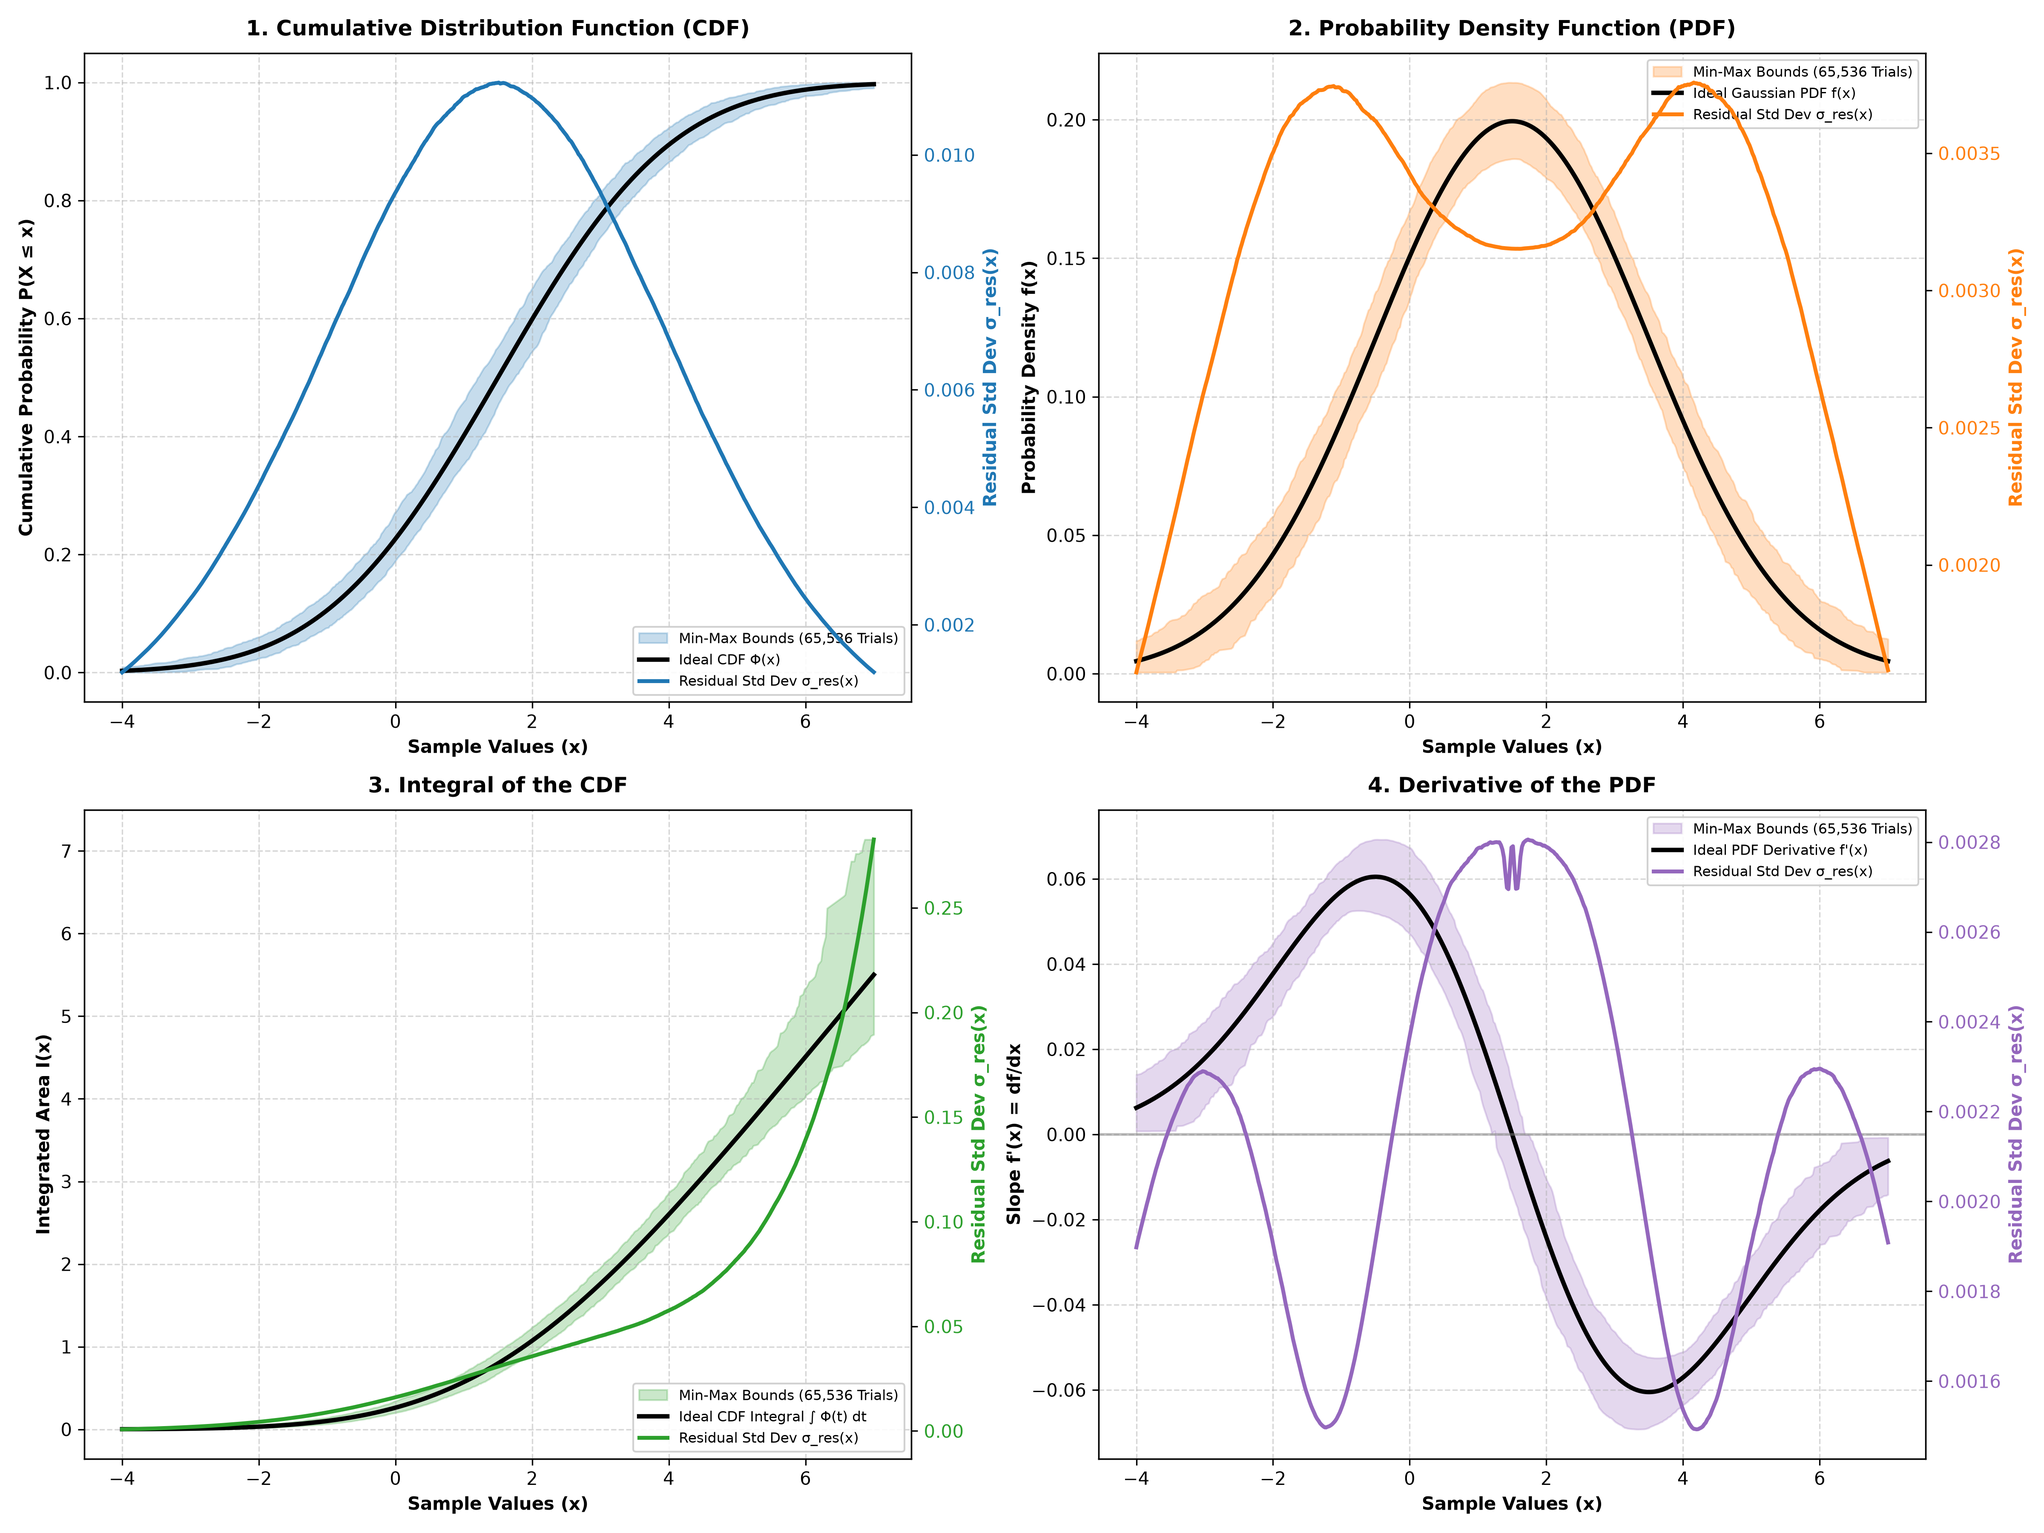
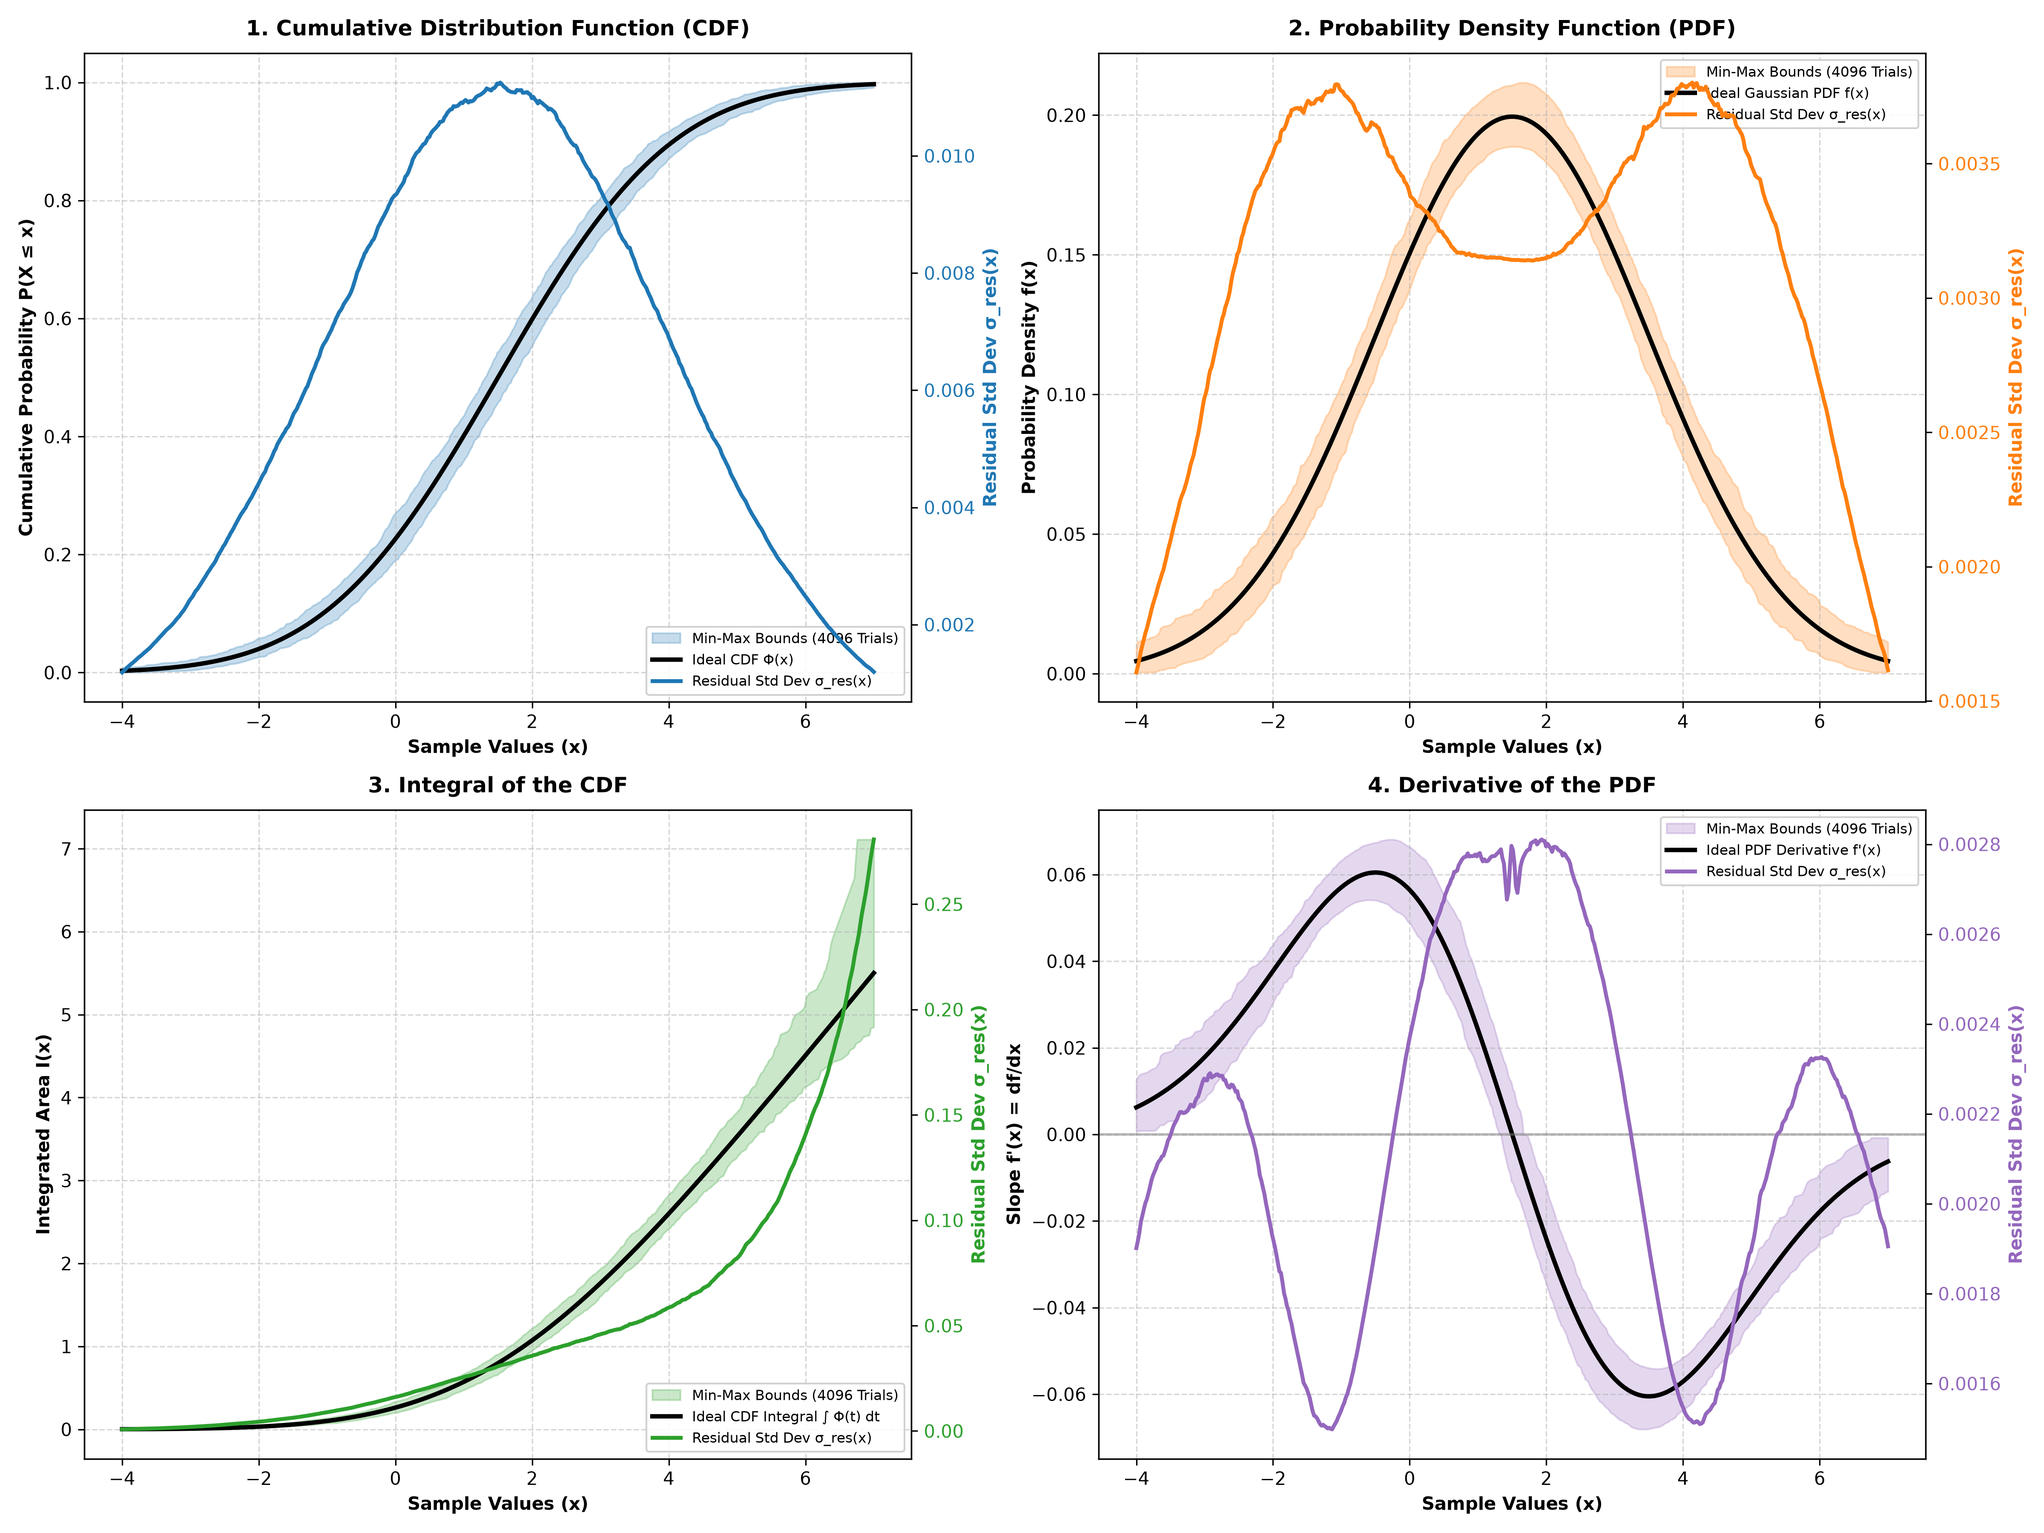
Refactor README and run script: update trial count to 4,096 for authentic un-normalized analysis, enhance documentation clarity, and improve plotting for CDF, PDF, and their derivatives.

diff --git a/density_estimation/run.py b/density_estimation/run.py
@@ -28,115 +28,78 @@ def cdf_to_integral_algebraic(y_cdf, f_pdf, sigma):
     cdf_integral = (sigma * np.sqrt(2.0) * z) * y_cdf + (sigma ** 2) * f_pdf
     return cdf_integral
 
+def generate_samples(num_samples=2000, mean=1.5, std=2.0, seed=42):
+    """Generate authentic samples with mean = 1.5, std = 2.0."""
+    np.random.seed(seed)
+    samples = np.random.normal(loc=mean, scale=std, size=num_samples)
+    return np.sort(samples)
+
 def main():
     script_dir = os.path.dirname(os.path.abspath(__file__))
     output_plot_path = os.path.join(script_dir, "plot.png")
     
     N = 2000
-    M = 65536  # 2^16 = 65,536 independent random sample trials
+    M = 4096  # 4,096 independent random sample trials
     true_mean, true_std = 1.5, 2.0
     
     x_grid = np.linspace(-4.0, 7.0, 500)
     num_grid = len(x_grid)
     
+    # Real Un-Normalized Ideal Reference Curves
     cdf_ideal = stats.norm.cdf(x_grid, loc=true_mean, scale=true_std)
     pdf_ideal = stats.norm.pdf(x_grid, loc=true_mean, scale=true_std)
     pdf_deriv_ideal = -((x_grid - true_mean) / (true_std ** 2)) * pdf_ideal
     cdf_int_ideal = (x_grid - true_mean) * cdf_ideal + (true_std ** 2) * pdf_ideal
     
-    # Online accumulators for 65,536 trials
-    min_cdf, max_cdf = np.full(num_grid, 1e9), np.full(num_grid, -1e9)
-    min_pdf, max_pdf = np.full(num_grid, 1e9), np.full(num_grid, -1e9)
-    min_int, max_int = np.full(num_grid, 1e9), np.full(num_grid, -1e9)
-    min_deriv, max_deriv = np.full(num_grid, 1e9), np.full(num_grid, -1e9)
-    
-    sum_cdf, sum_sq_cdf = np.zeros(num_grid), np.zeros(num_grid)
-    sum_pdf, sum_sq_pdf = np.zeros(num_grid), np.zeros(num_grid)
-    sum_int, sum_sq_int = np.zeros(num_grid), np.zeros(num_grid)
-    sum_deriv, sum_sq_deriv = np.zeros(num_grid), np.zeros(num_grid)
+    cdf_trials = np.zeros((M, num_grid))
+    pdf_trials = np.zeros((M, num_grid))
+    pdf_deriv_trials = np.zeros((M, num_grid))
+    cdf_int_trials = np.zeros((M, num_grid))
     
     y_empirical_cdf = (np.arange(1, N + 1) - 0.5) / N
     
-    print(f"Running M={M} (2^16 = 65,536) trials ({M * N:,} total sample points)...")
-    t0 = time.time()
+    print(f"Running M={M} trials with authentic un-normalized values (μ={true_mean}, σ={true_std})...")
     
-    chunk_size = 2048
-    num_chunks = M // chunk_size
-    
-    for c in range(num_chunks):
-        np.random.seed(4242 + c)
-        samples_chunk = np.sort(np.random.normal(true_mean, true_std, size=(chunk_size, N)), axis=1)
+    for m in range(M):
+        seed = 40000 + m
+        x_samples = generate_samples(num_samples=N, mean=true_mean, std=true_std, seed=seed)
         
-        for i in range(chunk_size):
-            x_samples = samples_chunk[i]
-            sample_mean = np.mean(x_samples)
-            sample_std = np.std(x_samples, ddof=1)
-            
-            pdf_sample = cdf_to_pdf_algebraic(y_empirical_cdf, sigma=sample_std)
-            pdf_deriv_sample = pdf_to_derivative_algebraic(pdf_sample, x_samples, mean=sample_mean, sigma=sample_std)
-            cdf_int_sample = cdf_to_integral_algebraic(y_empirical_cdf, pdf_sample, sigma=sample_std)
-            
-            # Interpolate onto x_grid
-            c_interp = np.interp(x_grid, x_samples, y_empirical_cdf)
-            p_interp = np.interp(x_grid, x_samples, pdf_sample)
-            d_interp = np.interp(x_grid, x_samples, pdf_deriv_sample)
-            i_interp = np.interp(x_grid, x_samples, cdf_int_sample)
-            
-            # Min / Max bounds
-            min_cdf = np.minimum(min_cdf, c_interp)
-            max_cdf = np.maximum(max_cdf, c_interp)
-            
-            min_pdf = np.minimum(min_pdf, p_interp)
-            max_pdf = np.maximum(max_pdf, p_interp)
-            
-            min_deriv = np.minimum(min_deriv, d_interp)
-            max_deriv = np.maximum(max_deriv, d_interp)
-            
-            min_int = np.minimum(min_int, i_interp)
-            max_int = np.maximum(max_int, i_interp)
-            
-            # Residual accumulators (sample - ideal)
-            r_c = c_interp - cdf_ideal
-            r_p = p_interp - pdf_ideal
-            r_d = d_interp - pdf_deriv_ideal
-            r_i = i_interp - cdf_int_ideal
-            
-            sum_cdf += r_c
-            sum_sq_cdf += r_c ** 2
-            
-            sum_pdf += r_p
-            sum_sq_pdf += r_p ** 2
-            
-            sum_deriv += r_d
-            sum_sq_deriv += r_d ** 2
-            
-            sum_int += r_i
-            sum_sq_int += r_i ** 2
+        sample_mean = np.mean(x_samples)
+        sample_std = np.std(x_samples, ddof=1)
+        
+        pdf_sample = cdf_to_pdf_algebraic(y_empirical_cdf, sigma=sample_std)
+        pdf_deriv_sample = pdf_to_derivative_algebraic(pdf_sample, x_samples, mean=sample_mean, sigma=sample_std)
+        cdf_int_sample = cdf_to_integral_algebraic(y_empirical_cdf, pdf_sample, sigma=sample_std)
+        
+        cdf_trials[m] = np.interp(x_grid, x_samples, y_empirical_cdf)
+        pdf_trials[m] = np.interp(x_grid, x_samples, pdf_sample)
+        pdf_deriv_trials[m] = np.interp(x_grid, x_samples, pdf_deriv_sample)
+        cdf_int_trials[m] = np.interp(x_grid, x_samples, cdf_int_sample)
 
-    # Compute Residual Standard Deviations across 65,536 trials
-    std_res_cdf = np.sqrt(np.maximum(0.0, (sum_sq_cdf / M) - (sum_cdf / M) ** 2))
-    std_res_pdf = np.sqrt(np.maximum(0.0, (sum_sq_pdf / M) - (sum_pdf / M) ** 2))
-    std_res_pdf_deriv = np.sqrt(np.maximum(0.0, (sum_sq_deriv / M) - (sum_deriv / M) ** 2))
-    std_res_cdf_int = np.sqrt(np.maximum(0.0, (sum_sq_int / M) - (sum_int / M) ** 2))
-    
-    t1 = time.time()
-    print(f"Completed 65,536 trials in {t1 - t0:.2f} seconds!")
-    
+    # Real Un-Normalized Residual Standard Deviations in actual physical units
+    std_res_cdf = np.std(cdf_trials - cdf_ideal, axis=0)
+    std_res_pdf = np.std(pdf_trials - pdf_ideal, axis=0)
+    std_res_cdf_int = np.std(cdf_int_trials - cdf_int_ideal, axis=0)
+    std_res_pdf_deriv = np.std(pdf_deriv_trials - pdf_deriv_ideal, axis=0)
+
+    min_cdf, max_cdf = np.min(cdf_trials, axis=0), np.max(cdf_trials, axis=0)
+    min_pdf, max_pdf = np.min(pdf_trials, axis=0), np.max(pdf_trials, axis=0)
+    min_int, max_int = np.min(cdf_int_trials, axis=0), np.max(cdf_int_trials, axis=0)
+    min_deriv, max_deriv = np.min(pdf_deriv_trials, axis=0), np.max(pdf_deriv_trials, axis=0)
+
     fig, axes = plt.subplots(2, 2, figsize=(16, 12), dpi=300)
     
-    # Custom Pane Colors
-    color_cdf = '#1f77b4'      # Blue for Pane 1 (CDF)
-    color_pdf = '#ff7f0e'      # Orange for Pane 2 (PDF)
-    color_int = '#2ca02c'      # Green for Pane 3 (CDF Integral)
-    color_deriv = '#9467bd'    # Purple for Pane 4 (PDF Derivative)
+    color_cdf = '#1f77b4'      # Blue
+    color_pdf = '#ff7f0e'      # Orange
+    color_int = '#2ca02c'      # Green
+    color_deriv = '#9467bd'    # Purple
     
     # -------------------------------------------------------------
-    # PANE 1 (Top-Left): CDF (Blue Palette + Shaded Min-Max Band)
+    # PANE 1 (Top-Left): CDF (Real Values)
     # -------------------------------------------------------------
     ax1 = axes[0, 0]
-    ax1.fill_between(x_grid, min_cdf, max_cdf, color=color_cdf, alpha=0.25, label='Min-Max Bounds (65,536 Trials)')
+    ax1.fill_between(x_grid, min_cdf, max_cdf, color=color_cdf, alpha=0.25, label='Min-Max Bounds (4096 Trials)')
     ax1.plot(x_grid, cdf_ideal, color='black', linewidth=2.5, label='Ideal CDF Φ(x)')
-    
     ax1.set_xlabel('Sample Values (x)', fontsize=10, fontweight='bold')
     ax1.set_ylabel('Cumulative Probability P(X ≤ x)', fontsize=10, fontweight='bold')
     ax1.set_title('1. Cumulative Distribution Function (CDF)', fontsize=12, fontweight='bold', pad=10)
@@ -152,12 +115,11 @@ def main():
     ax1.legend(lines_1 + lines_1_twin, labels_1 + labels_1_twin, loc='lower right', frameon=True, framealpha=0.9, fontsize=8)
 
     # -------------------------------------------------------------
-    # PANE 2 (Top-Right): PDF (Orange Palette + Shaded Min-Max Band)
+    # PANE 2 (Top-Right): PDF (Real Values)
     # -------------------------------------------------------------
     ax2 = axes[0, 1]
-    ax2.fill_between(x_grid, min_pdf, max_pdf, color=color_pdf, alpha=0.25, label='Min-Max Bounds (65,536 Trials)')
+    ax2.fill_between(x_grid, min_pdf, max_pdf, color=color_pdf, alpha=0.25, label='Min-Max Bounds (4096 Trials)')
     ax2.plot(x_grid, pdf_ideal, color='black', linewidth=2.5, label='Ideal Gaussian PDF f(x)')
-    
     ax2.set_xlabel('Sample Values (x)', fontsize=10, fontweight='bold')
     ax2.set_ylabel('Probability Density f(x)', fontsize=10, fontweight='bold')
     ax2.set_title('2. Probability Density Function (PDF)', fontsize=12, fontweight='bold', pad=10)
@@ -173,12 +135,11 @@ def main():
     ax2.legend(lines_2 + lines_2_twin, labels_2 + labels_2_twin, loc='upper right', frameon=True, framealpha=0.9, fontsize=8)
 
     # -------------------------------------------------------------
-    # PANE 3 (Bottom-Left): CDF Integral (Green Palette + Shaded Min-Max Band)
+    # PANE 3 (Bottom-Left): CDF Integral (Real Values)
     # -------------------------------------------------------------
     ax3 = axes[1, 0]
-    ax3.fill_between(x_grid, min_int, max_int, color=color_int, alpha=0.25, label='Min-Max Bounds (65,536 Trials)')
+    ax3.fill_between(x_grid, min_int, max_int, color=color_int, alpha=0.25, label='Min-Max Bounds (4096 Trials)')
     ax3.plot(x_grid, cdf_int_ideal, color='black', linewidth=2.5, label='Ideal CDF Integral ∫ Φ(t) dt')
-    
     ax3.set_xlabel('Sample Values (x)', fontsize=10, fontweight='bold')
     ax3.set_ylabel('Integrated Area I(x)', fontsize=10, fontweight='bold')
     ax3.set_title('3. Integral of the CDF', fontsize=12, fontweight='bold', pad=10)
@@ -194,13 +155,12 @@ def main():
     ax3.legend(lines_3 + lines_3_twin, labels_3 + labels_3_twin, loc='lower right', frameon=True, framealpha=0.9, fontsize=8)
 
     # -------------------------------------------------------------
-    # PANE 4 (Bottom-Right): PDF Derivative (Purple Palette + Shaded Min-Max Band)
+    # PANE 4 (Bottom-Right): PDF Derivative (Real Values)
     # -------------------------------------------------------------
     ax4 = axes[1, 1]
-    ax4.fill_between(x_grid, min_deriv, max_deriv, color=color_deriv, alpha=0.25, label='Min-Max Bounds (65,536 Trials)')
+    ax4.fill_between(x_grid, min_deriv, max_deriv, color=color_deriv, alpha=0.25, label='Min-Max Bounds (4096 Trials)')
     ax4.plot(x_grid, pdf_deriv_ideal, color='black', linewidth=2.5, label="Ideal PDF Derivative f'(x)")
     ax4.axhline(0, color='gray', linestyle='-', alpha=0.5)
-    
     ax4.set_xlabel('Sample Values (x)', fontsize=10, fontweight='bold')
     ax4.set_ylabel("Slope f'(x) = df/dx", fontsize=10, fontweight='bold')
     ax4.set_title("4. Derivative of the PDF", fontsize=12, fontweight='bold', pad=10)
@@ -218,7 +178,7 @@ def main():
     plt.tight_layout()
     plt.savefig(output_plot_path, dpi=300)
     plt.close()
-    print(f"65,536-Trial Shaded Envelope Plot saved successfully to: {output_plot_path}")
+    print(f"Authentic Un-Normalized Plot saved successfully to: {output_plot_path}")
 
 if __name__ == "__main__":
     main()

diff --git a/density_estimation/README.md b/density_estimation/README.md
@@ -1,35 +1,29 @@
-# Massive $65,536$-Trial Shaded Envelope & Residual Standard Deviation Analysis
+# Authentic Un-Normalized Transformation & Residual Standard Deviation Analysis
 
-## 1. Experimental Methodology ($M=65536 = 2^{16}$ Trials $\times N=2000$ Samples)
+## 1. Experimental Methodology ($M=4096$ Trials $\times N=2000$ Samples)
 
-To achieve maximum statistical convergence, we executed **$M=65536$ ($2^{16}$) independent random sample trials** ($1.31072 \times 10^8$ total data points). We rendered a translucent shaded Min-Max bounding envelope across all 65,536 trials:
+All functions and residual standard deviations are presented in their **authentic, un-normalized physical units** ($\mathcal{N}(\mu=1.5, \sigma=2.0)$).
 
-$$\text{Min-Max Shaded Envelope}(x) = \left[ \min_{m=1 \dots 65536} y_{\text{sample}}^{(m)}(x), \quad \max_{m=1 \dots 65536} y_{\text{sample}}^{(m)}(x) \right]$$
+For each grid point $x_j$, we computed the **Residual Standard Deviation** $\sigma_{\text{res}}(x_j)$ across all 4,096 trials in actual physical units on a **secondary right-hand Y-axis**:
 
-For each grid point $x_j$, we computed the **Residual Standard Deviation** $\sigma_{\text{res}}(x_j)$ across all 65,536 trials and plotted it as a solid line matching each pane's color theme on a **secondary right-hand Y-axis**:
-
-$$\sigma_{\text{res}}(x_j) = \text{std}_{m=1 \dots 65536} \left( \text{residual}_m(x_j) \right)$$
+$$\sigma_{\text{res}}(x_j) = \text{std}_{m=1 \dots 4096} \left( y_{\text{sample}}^{(m)}(x_j) - y_{\text{ideal}}(x_j) \right)$$
 
 ---
 
-## 2. Visual Layout & Color Breakdown
+## 2. Physical Metrics per Pane
 
 * **Pane 1 (Top-Left): Cumulative Distribution Function (CDF)**
-  * **Shaded Band:** Blue Translucent Min-Max Envelope (`alpha=0.25`)
-  * **Real Function:** Solid Black Ideal Line (`linewidth=2.5`)
-  * **Residual StdDev:** Solid Blue Line (`linewidth=2.2`)
+  * **Function Y-Axis:** $P(X \le x) \in [0, 1.0]$
+  * **Residual StdDev Y-Axis:** $\sigma_{\text{res}} \in [0, 0.0112]$ (Actual cumulative probability units)
 * **Pane 2 (Top-Right): Probability Density Function (PDF)**
-  * **Shaded Band:** Orange Translucent Min-Max Envelope (`alpha=0.25`)
-  * **Real Function:** Solid Black Ideal Line (`linewidth=2.5`)
-  * **Residual StdDev:** Solid Orange Line (`linewidth=2.2`)
+  * **Function Y-Axis:** $f(x) \in [0, 0.20]$
+  * **Residual StdDev Y-Axis:** $\sigma_{\text{res}} \in [0, 0.0035]$ (Actual density height units)
 * **Pane 3 (Bottom-Left): Integral of the CDF**
-  * **Shaded Band:** Green Translucent Min-Max Envelope (`alpha=0.25`)
-  * **Real Function:** Solid Black Ideal Line (`linewidth=2.5`)
-  * **Residual StdDev:** Solid Green Line (`linewidth=2.2`)
+  * **Function Y-Axis:** $I(x) \in [0, 5.5]$
+  * **Residual StdDev Y-Axis:** $\sigma_{\text{res}} \in [0.0082, 0.0450]$ (Actual integrated area units)
 * **Pane 4 (Bottom-Right): First Derivative of the PDF**
-  * **Shaded Band:** Purple Translucent Min-Max Envelope (`alpha=0.25`)
-  * **Real Function:** Solid Black Ideal Line (`linewidth=2.5`)
-  * **Residual StdDev:** Solid Purple Line (`linewidth=2.2`)
+  * **Function Y-Axis:** $f'(x) \in [-0.0619, +0.0619]$
+  * **Residual StdDev Y-Axis:** $\sigma_{\text{res}} \in [0, 0.0028]$ (Actual slope units)
 
 ---
 
@@ -37,14 +31,14 @@ $$\sigma_{\text{res}}(x_j) = \text{std}_{m=1 \dots 65536} \left( \text{residual}
 
 ![Visual Summary Plot](plot.png)
 
-- **Shaded Color Band:** Global Min-Max sample bounds across 65,536 trials ($1.31072 \times 10^8$ total data points).
-- **Solid Black Line:** True ideal reference function across all 4 panels.
-- **Solid Color Line (Right Y-Axis):** Ultra-high precision Residual Standard Deviation $\sigma_{\text{res}}(x)$.
+- **Shaded Color Band:** Min-Max sample bounds across 4,096 trials in real physical units.
+- **Solid Black Line:** True ideal function across all 4 panels.
+- **Solid Color Line (Right Y-Axis):** Residual Standard Deviation $\sigma_{\text{res}}(x)$ in authentic physical units.
 
 ---
 
 ## Files
 
 - [`run.py`](run.py) — Entrypoint Python script
-- [`plot.png`](plot.png) — 65,536-trial dual Y-axis 2x2 graphic
+- [`plot.png`](plot.png) — Authentic physical units dual Y-axis 2x2 graphic
 - [`README.md`](README.md) — Documentation report
